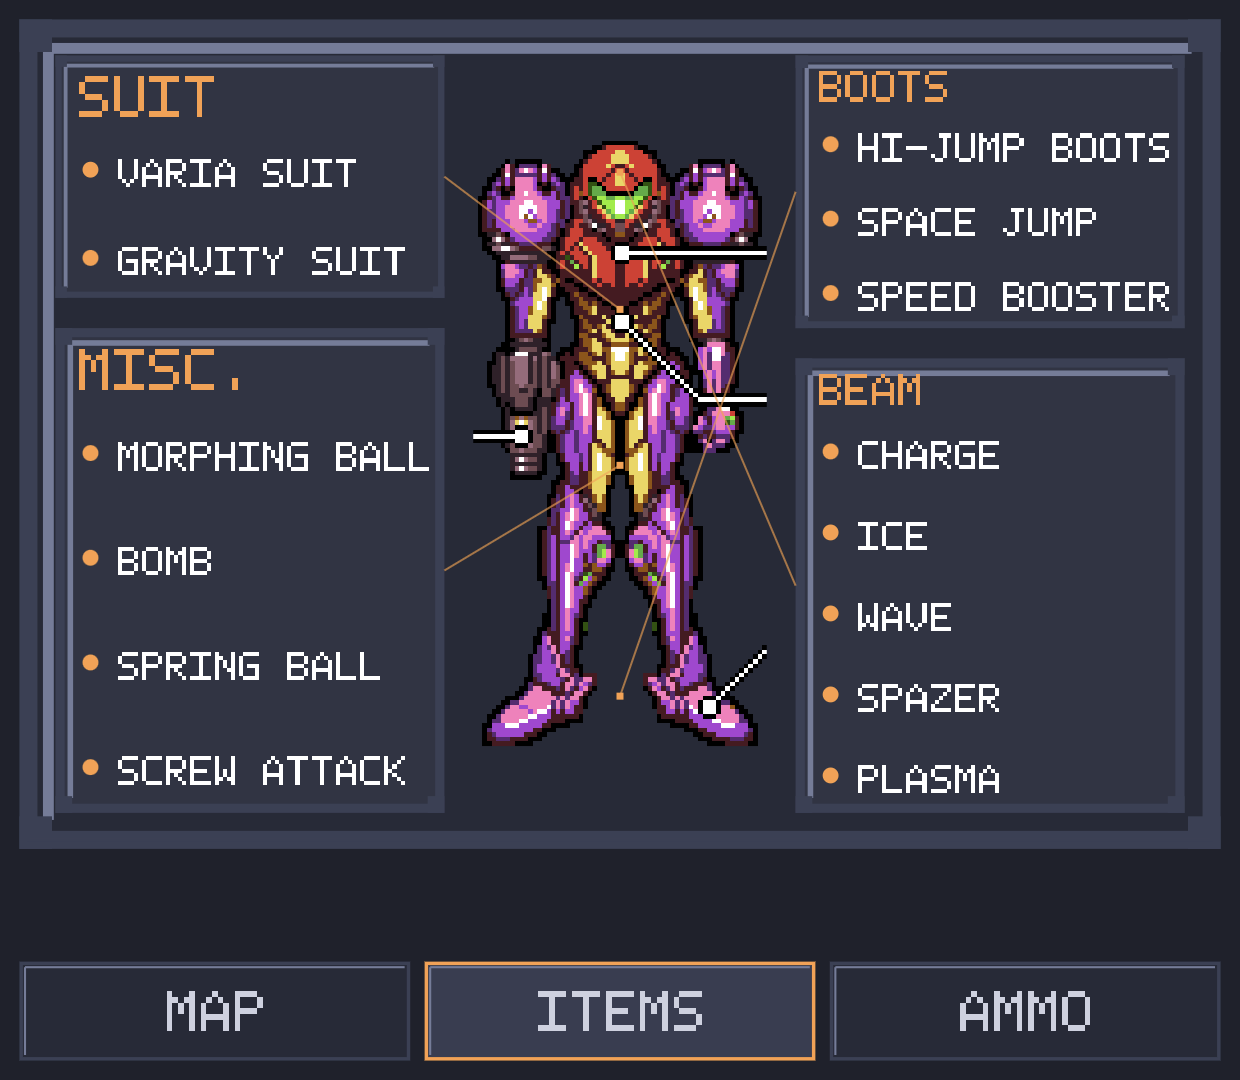
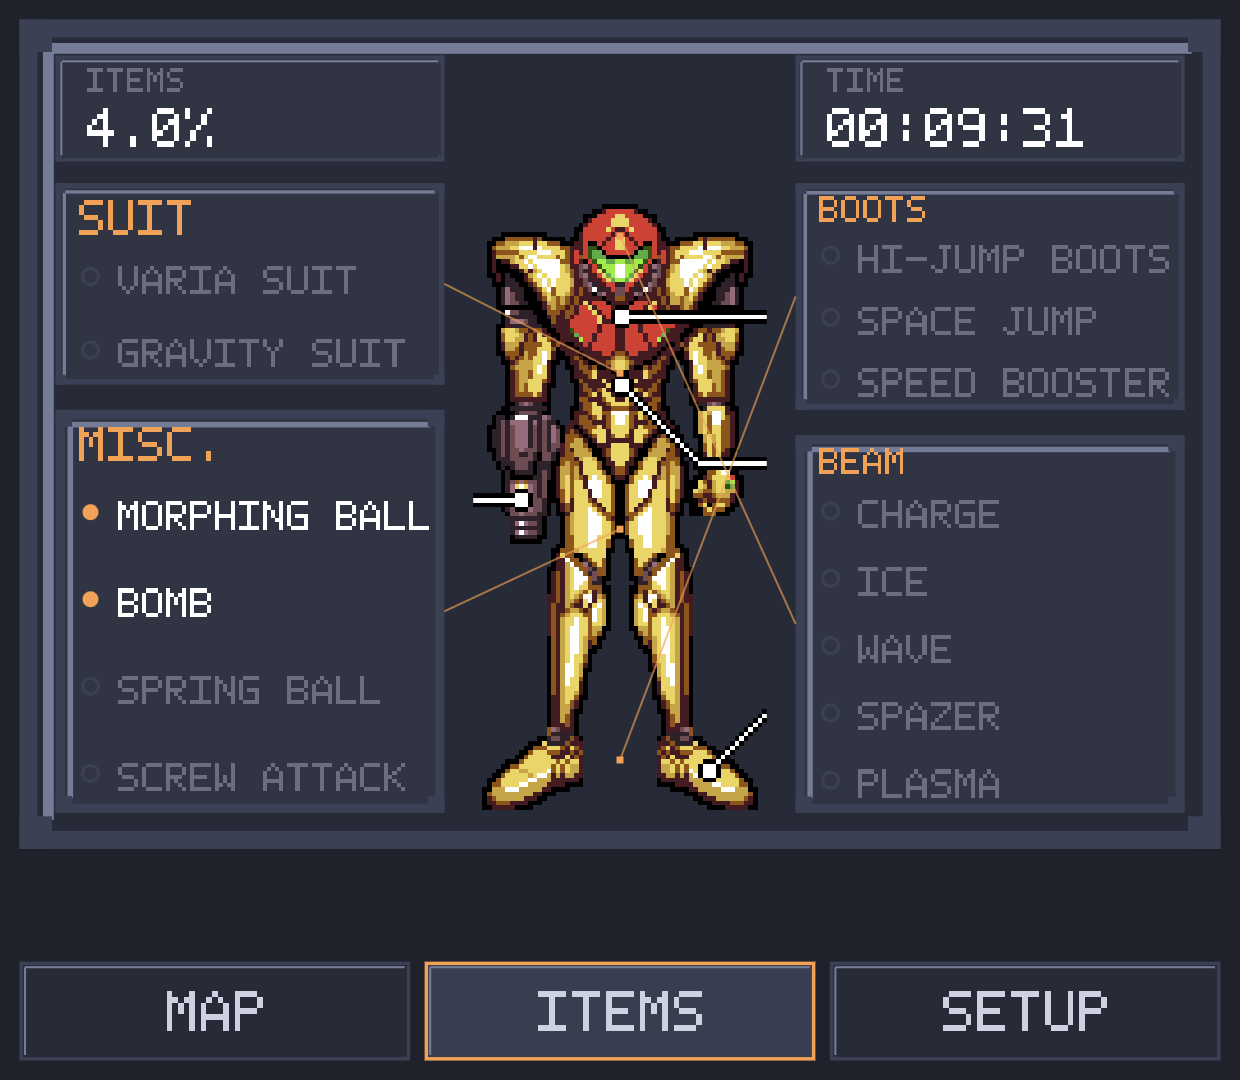
updated README

diff --git a/android/app/src/main/java/com/raekwon/supermetroid/PixelFont.java b/android/app/src/main/java/com/raekwon/supermetroid/PixelFont.java
@@ -79,6 +79,7 @@ public final class PixelFont {
         g('-', "     ", "     ", "     ", "#####", "     ", "     ", "     ");
         g(':', "     ", "  #  ", "  #  ", "     ", "  #  ", "  #  ", "     ");
         g('\'', " #   ", " #   ", "     ", "     ", "     ", "     ", "     ");
+        g('%', "#   #", "#  # ", "   # ", "  #  ", " #   ", " #  #", "#   #");
         g(' ', "     ", "     ", "     ", "     ", "     ", "     ", "     ");
     }
 

diff --git a/README.md b/README.md
@@ -27,24 +27,49 @@ This follows the same idea as [samyost1/zelda3-android](https://github.com/samyo
 dual-screen mod for `snesrev/zelda3`, adapted for Super Metroid's own map and
 item system.
 
-| Main screen | Second screen: world map |
+| Main screen | Main screen, HUD hidden |
 |---|---|
-| ![Main gameplay screen](docs/screenshots/main-gameplay.png) | ![Second screen world map](docs/screenshots/second-screen-map.png) |
+| ![Main gameplay screen](docs/screenshots/main-gameplay.png) | ![Main gameplay screen with the HUD toggled off](docs/screenshots/main-gameplay-hud-hidden.png) |
 
-| Second screen: single room | Second screen: Map Station reveal |
+The main screen's HUD (health/ammo readout, top-left) can be toggled off
+entirely from the second screen's Setup tab, for a cleaner view of pure
+gameplay - everything it shows is already on the second screen's own live
+HP/ammo strip (see below). Compare the two shots above: same room, HUD on
+the left, hidden on the right.
+
+| Second screen: HP + ammo on the map | Second screen: single room, with a marker |
 |---|---|
-| ![Second screen room view](docs/screenshots/second-screen-map-room.png) | ![Second screen Map Station reveal](docs/screenshots/second-screen-map-station.png) |
+| ![Second screen HP and ammo readout, highlighted, on the Map tab](docs/screenshots/second-screen-hp-ammo.png) | ![Second screen room view with a map marker placed](docs/screenshots/second-screen-map-room.png) |
 
-The Map Station screenshot (right, above) shows Crateria rendered dimmer
+The left screenshot's highlighted box shows the live HP/missile/super
+missile/power bomb strip that sits along the top of the Map tab at all
+times - tap an ammo icon there to arm it, same as the old dedicated Ammo
+tab used to work. The room-view screenshot (right, above) also shows a
+placed map marker - the orange flag next to Samus's position dot. See
+[Map markers](#map-markers) below.
+
+| Second screen: Map Station reveal |
+|---|
+| ![Second screen Map Station reveal](docs/screenshots/second-screen-map-station.png) |
+
+The Map Station screenshot above shows Crateria rendered dimmer
 than Brinstar below it: Crateria's Map Station has been collected, so its
 whole layout is shown even into rooms never actually visited, while
 Brinstar (no Map Station yet) only shows the handful of rooms actually
 walked through, at full brightness. See
 [Map Station reveal](#map-station-reveal) below.
 
-| Second screen: items | Second screen: ammo |
-|---|---|
-| ![Second screen items tab](docs/screenshots/second-screen-items.png) | ![Second screen ammo tab](docs/screenshots/second-screen-ammo.png) |
+| Second screen: items |
+|---|
+| ![Second screen items tab](docs/screenshots/second-screen-items.png) |
+
+The Items tab's screenshot shows `ITEMS 4.0%` in the top-left box - this is
+the same "items collected" percentage the real game itself shows on the
+end-of-game stats screen, computed the same way vanilla Super Metroid
+computes it (a weighted mix of how full your Energy/Missile/Super/Power
+Bomb/Reserve tanks are plus whether you have each other item and beam, not
+just a raw item count), just shown live during play instead of only at the
+end.
 
 The underlying decompile is still an early-stage project, and its C game
 logic remains in this codebase (used on desktop/Switch builds, and always
@@ -114,7 +139,12 @@ On a device with a second physical display (e.g. the AYN Thor), the second
 screen shows automatically once you're in-game, with three tabs along the
 bottom:
 
-**Map** tab. The real in-game pause-menu map tiles, decoded straight from
+**Map** tab. A live HP/missile/super missile/power bomb readout sits in a
+strip along the top at all times (see screenshot above) - tap a missile,
+super missile, or power bomb icon there to arm it, the same effect as
+pressing Select on the controller until you reach it; tap the already-armed
+one again to disarm it back to your plain beam. Below that strip are the
+real in-game pause-menu map tiles, decoded straight from
 your ROM, not a hand-drawn placeholder. Pinch, or use the +/- buttons, to
 zoom from a single room out to the full connected world map, and pan around
 with a drag. The nested-squares button jumps straight between the two ends
@@ -158,28 +188,37 @@ Gravity). Credit to that hack's artists for the original graphics; if you
 maintain that project and would rather this not be included, open an issue
 and I'll take it out.
 
-**Ammo** tab. Tap a missile, super missile, or power bomb slot to arm it,
-the same effect as pressing Select on the controller until you reach it.
-Tap the already-armed slot again to disarm it back to your plain beam.
+**Setup** tab. Toggles and options for everything else the second screen
+does, top to bottom:
+
+![Second screen Setup tab](docs/screenshots/second-screen-setup.png)
+
+- **Status on map**: shows/hides the Map tab's HP/ammo strip described
+  above.
+- **Hide main HUD**: hides the *main* screen's own HUD (health/ammo
+  readout) entirely, for a cleaner view of pure gameplay - everything it
+  shows is already available on the second screen regardless. See the
+  side-by-side comparison near the top of this README.
+- **Save states**: opens a dedicated save-state section alongside the
+  normal in-game saves, with five slots - four manual slots plus an
+  always-current "AUTOSAVE" slot that's kept up to date automatically as
+  you play - each shown with a real screenshot thumbnail of the moment it
+  was saved. Save/load/delete confirmations show inline in the same box
+  rather than as a separate popup. Slots persist across closing and
+  reopening the app.
+
+  ![Second screen Save States section](docs/screenshots/second-screen-save-states.png)
+- **Clear map markers**: removes every marker you've long-pressed onto the
+  map at once (see [Map markers](#map-markers) below for how to place
+  them).
+- **Autosave on exit**: whether closing the app updates the AUTOSAVE slot
+  above with your current progress.
 
 #### Map markers
 Long-press anywhere on the map (room view or world view) to drop a
 Metroid-themed flag marker at that spot - useful for flagging an item you
 saw but couldn't reach yet, a locked door, or anywhere else you want to
-find again later. A "Clear map markers" option removes them all at once.
-
-#### Save states
-A dedicated save-state section alongside the normal in-game saves, with
-five slots: four manual slots plus an always-current "AUTOSAVE" slot that's
-kept up to date automatically as you play, each shown with a real
-screenshot thumbnail of the moment it was saved. Save/load/delete
-confirmations show inline in the same box rather than as a separate
-popup. Slots persist across closing and reopening the app.
-
-#### Hide HUD
-A toggle to hide the main screen's HUD (health/ammo readout) entirely, for
-a cleaner view of pure gameplay - everything you'd normally check there is
-already available on the second screen.
+find again later. Remove them all via Setup's "Clear map markers".
 
 ### Controls
 
